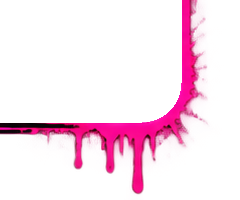
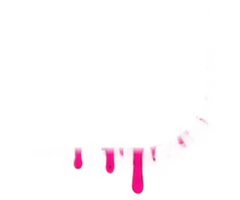
fix + feat: clean Calendar frame corners; POLAR Capacity View
Task 1 — root cause: the four corner splatter images still contained
the reference artwork's own rounded frame edge and glow, which scale
differently from the CSS frame and showed as a second curved border
at each corner. Regenerated them as paint only (frame line + glow
band removed); no darkness or layout changes.

Task 2 — POLAR Capacity View: each working day in Month view fills
from the bottom to booked / bookable minutes. Bookable = working-hours
windows minus blocked time/breaks; booked = client / walk-in / barter
minutes inside bookable time (overlaps merged, out-of-hours ignored,
never > 100%). Non-working days and fully blocked days are hatched,
never shown as 0%. Pure calculation in lib/calendar/capacity.ts, added
to getDaySummaries as `capacity`.

Changed region(s): [[0.0, 0.0, 0.875, 0.78]]

diff --git a/src/app/dashboard/barber/calendar/calendar-view.tsx b/src/app/dashboard/barber/calendar/calendar-view.tsx
@@ -4,6 +4,7 @@ import { useMemo, useState, useTransition } from "react";
 import Link from "next/link";
 import { formatTime12h } from "@/lib/dates";
 import type { CalendarBooking } from "@/lib/queries/barber-calendar";
+import type { DayCapacity } from "@/lib/calendar/capacity";
 import { createWalkIn } from "@/lib/actions/walk-ins";
 import { cancelBookingAsBarber } from "@/lib/actions/barber-bookings";
 import { createBookingAsBarber, createBarterBooking, createBlockedTime } from "@/lib/actions/barber-calendar-actions";
@@ -12,7 +13,7 @@ import { FocusModeShell, ACCENTS, type FrameSplatter } from "@/components/focus-
 import { BarberRoom } from "../dashboard-scene";
 
 export type ViewKind = "day" | "week" | "month" | "list" | "year";
-export type MonthCell = { date: string; day: number; count: number; isFullyBooked: boolean } | null;
+export type MonthCell = { date: string; day: number; count: number; isFullyBooked: boolean; capacity?: DayCapacity } | null;
 type Service = { id: string; name: string; durationMinutes: number; price: number };
 type Client = { id: string; fullName: string };
 
@@ -92,6 +93,42 @@ function Chevron({ dir }: { dir: "left" | "right" }) {
     <svg viewBox="0 0 24 24" className="h-6 w-6" fill="none" stroke={ACCENTS.magenta.hex} strokeWidth="3" strokeLinecap="round" strokeLinejoin="round" aria-hidden="true">
       <path d={dir === "left" ? "M15 5l-7 7 7 7" : "M9 5l7 7-7 7"} />
     </svg>
+  );
+}
+
+// POLAR Capacity View — each working day's cell fills from the bottom
+// like a battery, to booked ÷ bookable minutes (lib/calendar/capacity).
+// Kept deliberately subtle so dates, text and grid lines stay readable.
+const CAPACITY_FILL_ALPHA = { top: 0.1, bottom: 0.26 };
+const CAPACITY_EDGE_ALPHA = 0.38;
+const OFF_HATCH = "repeating-linear-gradient(135deg, rgba(255,255,255,0.035) 0 2px, transparent 2px 10px)";
+
+function capacityLabel(capacity: DayCapacity | undefined): string {
+  if (!capacity) return "";
+  if (capacity.status === "off") return ", not a working day";
+  if (capacity.status === "blocked") return ", blocked";
+  return `, ${Math.round(capacity.ratio! * 100)}% booked`;
+}
+
+function CapacityFill({ capacity }: { capacity: DayCapacity | undefined }) {
+  if (!capacity) return null;
+  // Non-working and fully-blocked days are shown as unavailable, never as 0%.
+  if (capacity.status !== "open") {
+    return <span aria-hidden="true" className="pointer-events-none absolute inset-0" style={{ background: OFF_HATCH }} />;
+  }
+  const pct = Math.min(1, Math.max(0, capacity.ratio!)) * 100;
+  if (pct === 0) return null;
+  const { rgb } = ACCENTS.magenta;
+  return (
+    <span
+      aria-hidden="true"
+      className="pointer-events-none absolute inset-x-0 bottom-0 transition-[height] duration-500"
+      style={{
+        height: `${pct}%`,
+        background: `linear-gradient(0deg, rgba(${rgb},${CAPACITY_FILL_ALPHA.bottom}) 0%, rgba(${rgb},${CAPACITY_FILL_ALPHA.top}) 100%)`,
+        borderTop: pct < 100 ? `1.5px solid rgba(${rgb},${CAPACITY_EDGE_ALPHA})` : undefined,
+      }}
+    />
   );
 }
 
@@ -538,10 +575,12 @@ export function CalendarView({
                   <Link
                     key={cell.date}
                     href={`?view=day&date=${cell.date}`}
-                    aria-label={`${dayLabel(cell.date)}${cell.count > 0 ? `, ${cell.count} booking${cell.count === 1 ? "" : "s"}` : ""}`}
+                    aria-label={`${dayLabel(cell.date)}${cell.count > 0 ? `, ${cell.count} booking${cell.count === 1 ? "" : "s"}` : ""}${cell.inMonth ? capacityLabel(cell.capacity) : ""}`}
+                    title={cell.inMonth ? capacityLabel(cell.capacity).replace(/^, /, "") || undefined : undefined}
                     className="relative flex min-h-0 flex-col px-3 pb-2 pt-2 transition hover:bg-white/[0.035]"
                     style={lines}
                   >
+                    {cell.inMonth && <CapacityFill capacity={cell.capacity} />}
                     <span
                       className="relative flex h-11 w-11 flex-col items-center justify-center rounded-full text-2xl font-bold leading-none"
                       style={{
@@ -559,9 +598,18 @@ export function CalendarView({
                         <span className="absolute bottom-[5px] h-1.5 w-1.5 rounded-full" style={{ background: PINK.hex }} aria-hidden="true" />
                       )}
                     </span>
-                    {cell.inMonth && cell.count > 0 && (
-                      <span className="mt-auto truncate text-sm font-semibold" style={{ color: cell.isFullyBooked ? "rgba(255,255,255,0.5)" : PINK.hex }}>
-                        {cell.isFullyBooked ? "Fully booked" : `${cell.count} booking${cell.count === 1 ? "" : "s"}`}
+                    {cell.inMonth && (cell.count > 0 || cell.capacity?.status === "blocked") && (
+                      <span className="relative mt-auto flex items-baseline justify-between gap-2 text-sm font-semibold">
+                        {cell.capacity?.status === "blocked" ? (
+                          <span className="text-white/45">Blocked</span>
+                        ) : (
+                          <span className="truncate" style={{ color: cell.isFullyBooked ? "rgba(255,255,255,0.55)" : PINK.hex }}>
+                            {cell.isFullyBooked ? "Fully booked" : `${cell.count} booking${cell.count === 1 ? "" : "s"}`}
+                          </span>
+                        )}
+                        {cell.capacity?.status === "open" && cell.capacity.ratio! > 0 && (
+                          <span className="shrink-0 text-xs text-white/60 tabular-nums">{Math.round(cell.capacity.ratio! * 100)}%</span>
+                        )}
                       </span>
                     )}
                   </Link>

diff --git a/src/lib/calendar/capacity.ts b/src/lib/calendar/capacity.ts
@@ -1,0 +1,87 @@
+// POLAR Capacity View — how booked a working day is, as a fraction of
+// its genuinely bookable time. Pure and dependency-free so thresholds
+// and edge cases can be tested/refined independently of the UI.
+//
+//   bookable = working-hours windows − blocked time / breaks
+//   booked   = client / walk-in / barter minutes inside bookable time
+//   ratio    = booked ÷ bookable   (0–1)
+//
+// Minutes, not appointment counts, so services of different lengths are
+// weighted correctly. Overlapping bookings are merged and anything
+// outside working hours is ignored, so the ratio never exceeds 1.
+
+export type CapacityStatus =
+  /** No working hours that weekday — not "0% booked". */
+  | "off"
+  /** Working day, but all of it is blocked (e.g. "Block whole day"). */
+  | "blocked"
+  /** Working day with bookable time; `ratio` is meaningful. */
+  | "open";
+
+export type DayCapacity = {
+  status: CapacityStatus;
+  bookableMinutes: number;
+  bookedMinutes: number;
+  /** booked ÷ bookable (0–1) when status is "open", otherwise null. */
+  ratio: number | null;
+};
+
+type Window = { startTime: string; endTime: string };
+type Occupancy = { startTime: string; endTime: string; isBlocked: boolean };
+type Interval = [number, number];
+
+const toMinutes = (t: string) => {
+  const [h, m] = t.split(":").map(Number);
+  return h * 60 + m;
+};
+
+function merge(intervals: Interval[]): Interval[] {
+  const sorted = intervals.filter(([a, b]) => b > a).sort((x, y) => x[0] - y[0]);
+  const out: Interval[] = [];
+  for (const [a, b] of sorted) {
+    const last = out[out.length - 1];
+    if (last && a <= last[1]) last[1] = Math.max(last[1], b);
+    else out.push([a, b]);
+  }
+  return out;
+}
+
+function intersect(a: Interval[], b: Interval[]): Interval[] {
+  const out: Interval[] = [];
+  for (const [s1, e1] of a) for (const [s2, e2] of b) {
+    const s = Math.max(s1, s2), e = Math.min(e1, e2);
+    if (e > s) out.push([s, e]);
+  }
+  return merge(out);
+}
+
+function subtract(a: Interval[], b: Interval[]): Interval[] {
+  let rest = a;
+  for (const [bs, be] of b) {
+    rest = rest.flatMap(([s, e]): Interval[] => {
+      if (be <= s || bs >= e) return [[s, e]];
+      const parts: Interval[] = [];
+      if (bs > s) parts.push([s, bs]);
+      if (be < e) parts.push([be, e]);
+      return parts;
+    });
+  }
+  return rest;
+}
+
+const total = (xs: Interval[]) => xs.reduce((sum, [s, e]) => sum + (e - s), 0);
+
+export function computeDayCapacity(windows: Window[], occupancies: Occupancy[]): DayCapacity {
+  const working = merge(windows.map((w) => [toMinutes(w.startTime), toMinutes(w.endTime)]));
+  if (total(working) === 0) return { status: "off", bookableMinutes: 0, bookedMinutes: 0, ratio: null };
+
+  const span = (o: Occupancy): Interval => [toMinutes(o.startTime), toMinutes(o.endTime)];
+  const blocked = merge(occupancies.filter((o) => o.isBlocked).map(span));
+  const bookable = subtract(working, blocked);
+  const bookableMinutes = total(bookable);
+  if (bookableMinutes === 0) return { status: "blocked", bookableMinutes: 0, bookedMinutes: 0, ratio: null };
+
+  const booked = intersect(merge(occupancies.filter((o) => !o.isBlocked).map(span)), bookable);
+  const bookedMinutes = total(booked);
+  return { status: "open", bookableMinutes, bookedMinutes, ratio: bookedMinutes / bookableMinutes };
+}

diff --git a/src/lib/queries/barber-calendar.ts b/src/lib/queries/barber-calendar.ts
@@ -1,4 +1,5 @@
 import type { createClient } from "@/lib/supabase/server";
+import { computeDayCapacity, type DayCapacity } from "@/lib/calendar/capacity";
 
 type SupabaseClient = Awaited<ReturnType<typeof createClient>>;
 
@@ -175,7 +176,13 @@ export async function getAvailabilityForDate(
   }));
 }
 
-export type DaySummary = { count: number; isFullyBooked: boolean; hasAvailability: boolean };
+export type DaySummary = {
+  count: number;
+  isFullyBooked: boolean;
+  hasAvailability: boolean;
+  /** POLAR Capacity View — booked vs bookable minutes (see lib/calendar/capacity). */
+  capacity: DayCapacity;
+};
 
 /**
  * Per-date summary for every real day in [startDate, endDateInclusive]
@@ -204,9 +211,11 @@ export async function getDaySummaries(
   ]);
 
   const availableMinutesByDow = new Map<number, number>();
+  const windowsByDow = new Map<number, { startTime: string; endTime: string }[]>();
   for (const row of (availabilityRows ?? []) as { day_of_week: number; start_time: string; end_time: string }[]) {
     const minutes = timeToMinutes(row.end_time) - timeToMinutes(row.start_time);
     availableMinutesByDow.set(row.day_of_week, (availableMinutesByDow.get(row.day_of_week) ?? 0) + minutes);
+    windowsByDow.set(row.day_of_week, [...(windowsByDow.get(row.day_of_week) ?? []), { startTime: row.start_time, endTime: row.end_time }]);
   }
 
   const summaries = new Map<string, DaySummary>();
@@ -226,6 +235,10 @@ export async function getDaySummaries(
       count: dayBookings.length,
       isFullyBooked: availableMinutes > 0 && bookedMinutes >= availableMinutes,
       hasAvailability: availableMinutes > 0,
+      capacity: computeDayCapacity(
+        windowsByDow.get(dow) ?? [],
+        dayBookings.map((b) => ({ startTime: b.start_time, endTime: b.end_time, isBlocked: b.is_blocked }))
+      ),
     });
     cursor.setUTCDate(cursor.getUTCDate() + 1);
   }

diff --git a/src/app/dashboard/barber/calendar/page.tsx b/src/app/dashboard/barber/calendar/page.tsx
@@ -26,6 +26,14 @@ function startOfWeekMonday(dateStr: string): Date {
   return d;
 }
 
+// A date with no summary is treated as a non-working day.
+const NO_SUMMARY: DaySummary = {
+  count: 0,
+  isFullyBooked: false,
+  hasAvailability: false,
+  capacity: { status: "off", bookableMinutes: 0, bookedMinutes: 0, ratio: null },
+};
+
 function buildMonthCells(year: number, month: number, summaries: Map<string, DaySummary>): MonthCell[] {
   const firstOfMonth = new Date(Date.UTC(year, month - 1, 1));
   const daysInMonth = new Date(Date.UTC(year, month, 0)).getUTCDate();
@@ -35,8 +43,8 @@ function buildMonthCells(year: number, month: number, summaries: Map<string, Day
   for (let i = 0; i < mondayIndex; i++) cells.push(null);
   for (let day = 1; day <= daysInMonth; day++) {
     const date = `${year}-${String(month).padStart(2, "0")}-${String(day).padStart(2, "0")}`;
-    const summary = summaries.get(date) ?? { count: 0, isFullyBooked: false, hasAvailability: false };
-    cells.push({ date, day, count: summary.count, isFullyBooked: summary.isFullyBooked });
+    const summary = summaries.get(date) ?? NO_SUMMARY;
+    cells.push({ date, day, count: summary.count, isFullyBooked: summary.isFullyBooked, capacity: summary.capacity });
   }
   while (cells.length % 7 !== 0) cells.push(null);
   return cells;
@@ -134,7 +142,7 @@ export default async function BarberCalendarPage({
     );
     weekDays = labels.map((label, i) => {
       const dateStr = dates[i];
-      const summary = summaries.get(dateStr) ?? { count: 0, isFullyBooked: false, hasAvailability: false };
+      const summary = summaries.get(dateStr) ?? NO_SUMMARY;
       return {
         date: dateStr,
         label: `${label} ${Number(dateStr.slice(8))}`,
